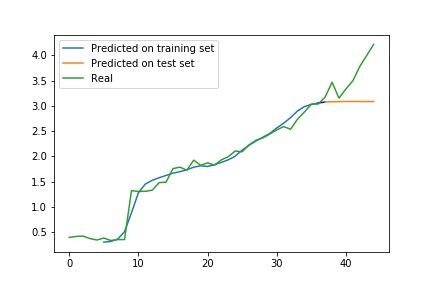
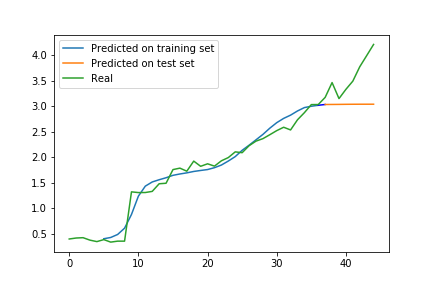
Prediction by group of countries

diff --git a/main.py b/main.py
@@ -24,7 +24,7 @@ train_in, train_out = {}, {}
 test_in, test_out = {}, {}
 
 
-def predictForArea(area, windowSize, fileName=None, neurons = (50, 50)):
+def predictForArea(area, windowSize, feature = -1, fileName=None, neurons = (256, 100)):
     
     nn = LstmNN(windowSize, nbFeatures, neurons)
     data = chunks[area]
@@ -39,14 +39,21 @@ def predictForArea(area, windowSize, fileName=None, neurons = (50, 50)):
         train_in[area] , train_out[area] = nn.inputOutput(train)
         test_in[area] , test_out[area] = nn.inputOutput(test)
     
-        nn.model.fit(x=train_in[area],y=train_out[area],epochs=100, shuffle=False, verbose=0)
-    
+        nn.model.fit(x=train_in[area],y=train_out[area],epochs=100)
+            
         predtr = nn.scaler.inverse_transform(nn.model.predict(train_in[area]))
-        pred = nn.prediction(test_in[area][0,:,:], len(chunks[area])-(windowSize+len(predtr)))
-        plt.plot(range(windowSize,windowSize+len(predtr)), predtr[:,-1], label="Predicted on training set")
-        plt.plot([windowSize+len(predtr)-1, windowSize+len(predtr)], [predtr[-1,-1], pred[0,-1]], "b")
-        plt.plot(range(windowSize+len(predtr),len(chunks[area])), pred[:,-1], label="Predicted on test set")
-        plt.plot(chunks[area][:,-1], label="Real")
+        #pred = nn.prediction(train_in[area][-1,:,:], len(chunks[area])-(windowSize+len(predtr)))
+        pred = nn.scaler.inverse_transform(nn.model.predict(test_in[area]))
+        predRoll = nn.prediction(train_in[area][-1,:,:], 10)
+        
+        plt.plot(range(windowSize,windowSize+len(predtr)), predtr[:,feature], label="Predicted on training set")
+        
+        plt.plot([windowSize+len(predtr)-1, windowSize+len(predtr)], [predtr[-1,feature], pred[0,feature]], "b")
+        
+        plt.plot(range(windowSize+len(predtr),len(chunks[area])), pred[:,feature], label="Predicted on test set")
+        plt.plot(range(windowSize+len(predtr),windowSize+len(predtr)+len(predRoll)), predRoll[:,feature], label="Predicted on rolling window")
+      
+        plt.plot(chunks[area][:,feature], label="Real")
         plt.legend()
         if fileName:
             plt.savefig(fileName)
@@ -54,5 +61,57 @@ def predictForArea(area, windowSize, fileName=None, neurons = (50, 50)):
     else:
         print("Too little data")
 
-for i in range(3,10):
-    predictForArea("Mexico", i, "Figures/Percountry/100epochs/window{}.png".format(i))
+fileName=None
+neurons = (256, 100)
+windowSize = 10
+feature = -1
+areas = ["Argentina", "Brazil", "Ecuador", "El Salvador", "Chile", "Colombia", "Costa Rica", "Guyana", "Jamaica", "Mexico", "Guatemala", "Cuba", "Honduras", "Peru", "Nicaragua", "Panama", "Paraguay", "Uruguay", "Dominican Republic", "Haiti", "Puerto Rico"]
+nn = LstmNN(windowSize, nbFeatures, neurons)
+cum_train_in = np.zeros((0,windowSize, nbFeatures))
+cum_train_out = np.zeros((0,nbFeatures))
+train_raw = np.zeros((0,nbFeatures))
+for area in areas:
+    data = chunks[area]
+    prop = 0.8
+    if len(data) > windowSize:
+        supData = nn.toSupervised(data)
+        train, test = nn.splitTrainTest(supData, prop)
+    
+        train_in[area] , train_out[area] = nn.inputOutput(train)
+        test_in[area] , test_out[area] = nn.inputOutput(test)
+        
+        cum_train_in = np.concatenate((cum_train_in, train_in[area]), axis=0)
+        cum_train_out = np.concatenate((cum_train_out, train_out[area]), axis=0)
+        train_raw = np.concatenate((train_raw, nn.splitTrainTest(data, prop)[0]), axis=0)
+        
+nn.fitScaler(train_raw)
+cum_train_out = nn.scaler.transform(cum_train_out)
+for i in range(cum_train_in.shape[1]):
+    cum_train_in[:,i,:] = nn.scaler.transform(cum_train_in[:,i,:])
+nn.model.fit(x=cum_train_in,y=cum_train_out,epochs=500, shuffle=True)
+
+for area in areas:
+    data = chunks[area]
+    if len(data) > windowSize:
+        predtr = nn.scaler.inverse_transform(nn.model.predict(train_in[area]))
+        #pred = nn.prediction(train_in[area][-1,:,:], len(chunks[area])-(windowSize+len(predtr)))
+        pred = nn.scaler.inverse_transform(nn.model.predict(test_in[area]))
+        #predRoll = nn.prediction(train_in[area][-1,:,:], 10)
+        
+        plt.plot(range(windowSize,windowSize+len(predtr)), predtr[:,feature], label="Predicted on training set")
+        
+        plt.plot([windowSize+len(predtr)-1, windowSize+len(predtr)], [predtr[-1,feature], pred[0,feature]], "b")
+        
+        plt.plot(range(windowSize+len(predtr),len(chunks[area])), pred[:,feature], label="Predicted on test set")
+        #plt.plot(range(windowSize+len(predtr),windowSize+len(predtr)+len(predRoll)), predRoll[:,feature], label="Predicted on rolling window")
+      
+        plt.plot(chunks[area][:,feature], label="Real")
+        plt.legend()
+        if fileName:
+            plt.savefig(fileName)
+        plt.show()
+
+
+
+#for i in range(3,10):
+    #predictForArea("Mexico", i, "Figures/Percountry/100epochs/window{}.png".format(i))

diff --git a/LSTM/NN.py b/LSTM/NN.py
@@ -1,5 +1,5 @@
 from keras.models import Sequential
-from keras.layers import Dense, CuDNNLSTM, Dropout, Activation
+from keras.layers import Dense, CuDNNLSTM, Dropout, Activation, TimeDistributed
 from keras.callbacks import TensorBoard
 import numpy as np
 from sklearn.preprocessing import MinMaxScaler
@@ -12,12 +12,13 @@ class LstmNN():
 
         self.model = Sequential()
         self.model.add(CuDNNLSTM(neurons[0], input_shape = (windowSize, nbFeatures), return_sequences=True))
-        self.model.add(Dropout(0.5))
+        self.model.add(Dropout(dropout))
         self.model.add(CuDNNLSTM(neurons[1]))
-        self.model.add(Dense(nbFeatures))
+        self.model.add(Dense(nbFeatures)) 
         self.model.add(Activation("linear"))
         self.model.compile(loss="mse", optimizer="adam")
-
+        self.model.summary()
+        
     def toSupervised(self, a):
         orig = a.copy() #On garde une copie car on va modifier a
         a = a[self.windowSize:] #On enlève les occurences qui n'ont pas assez de valeurs dans le passé
